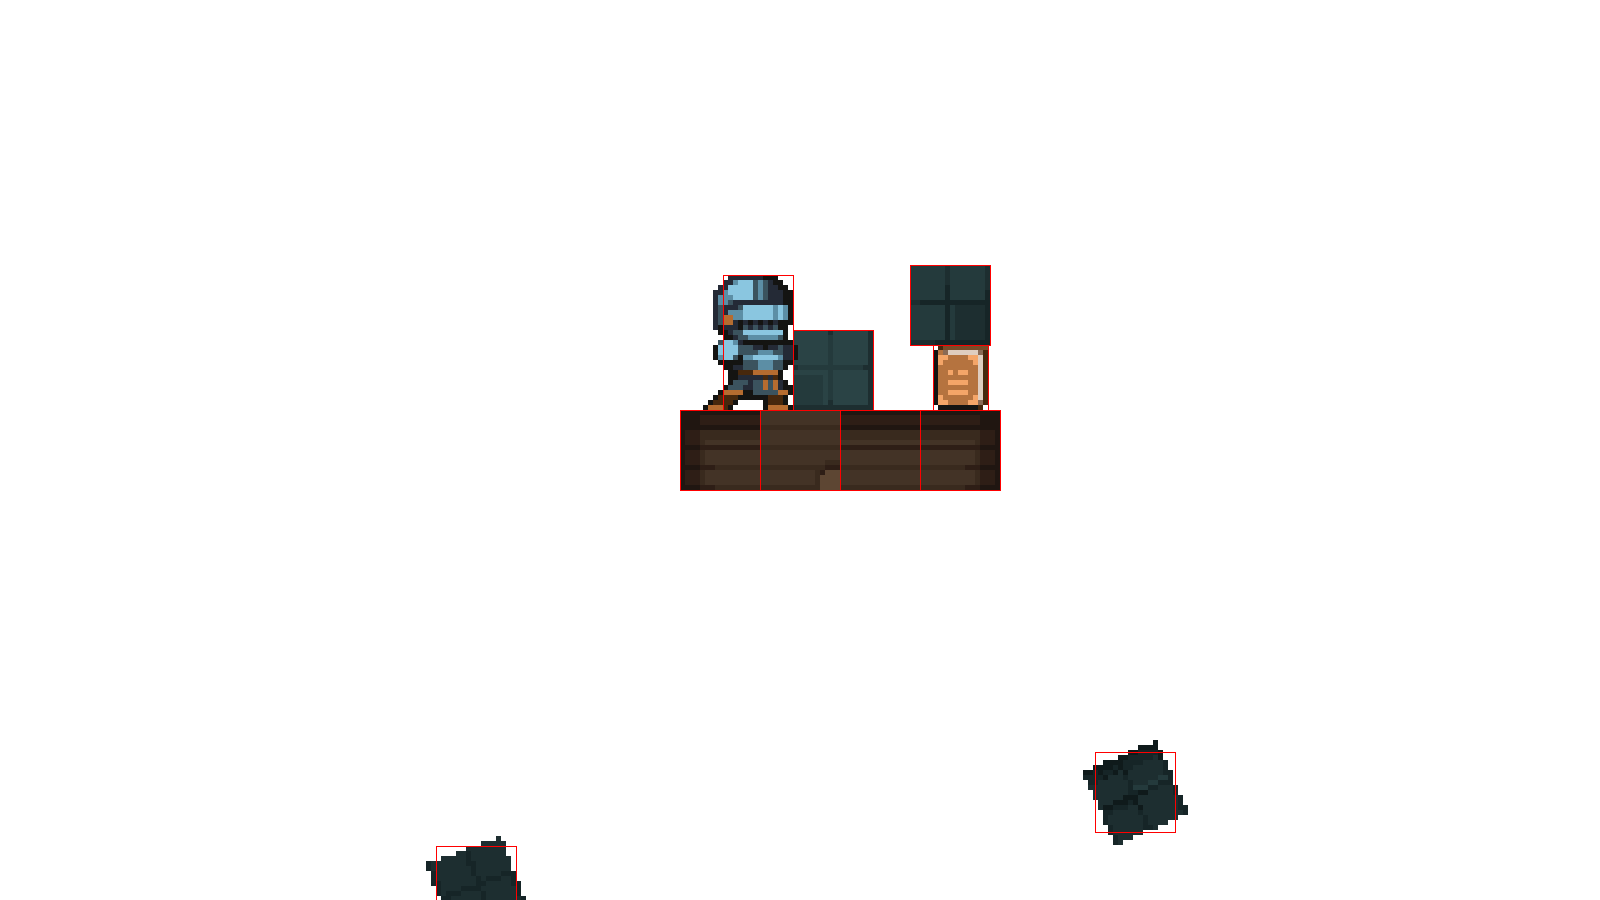
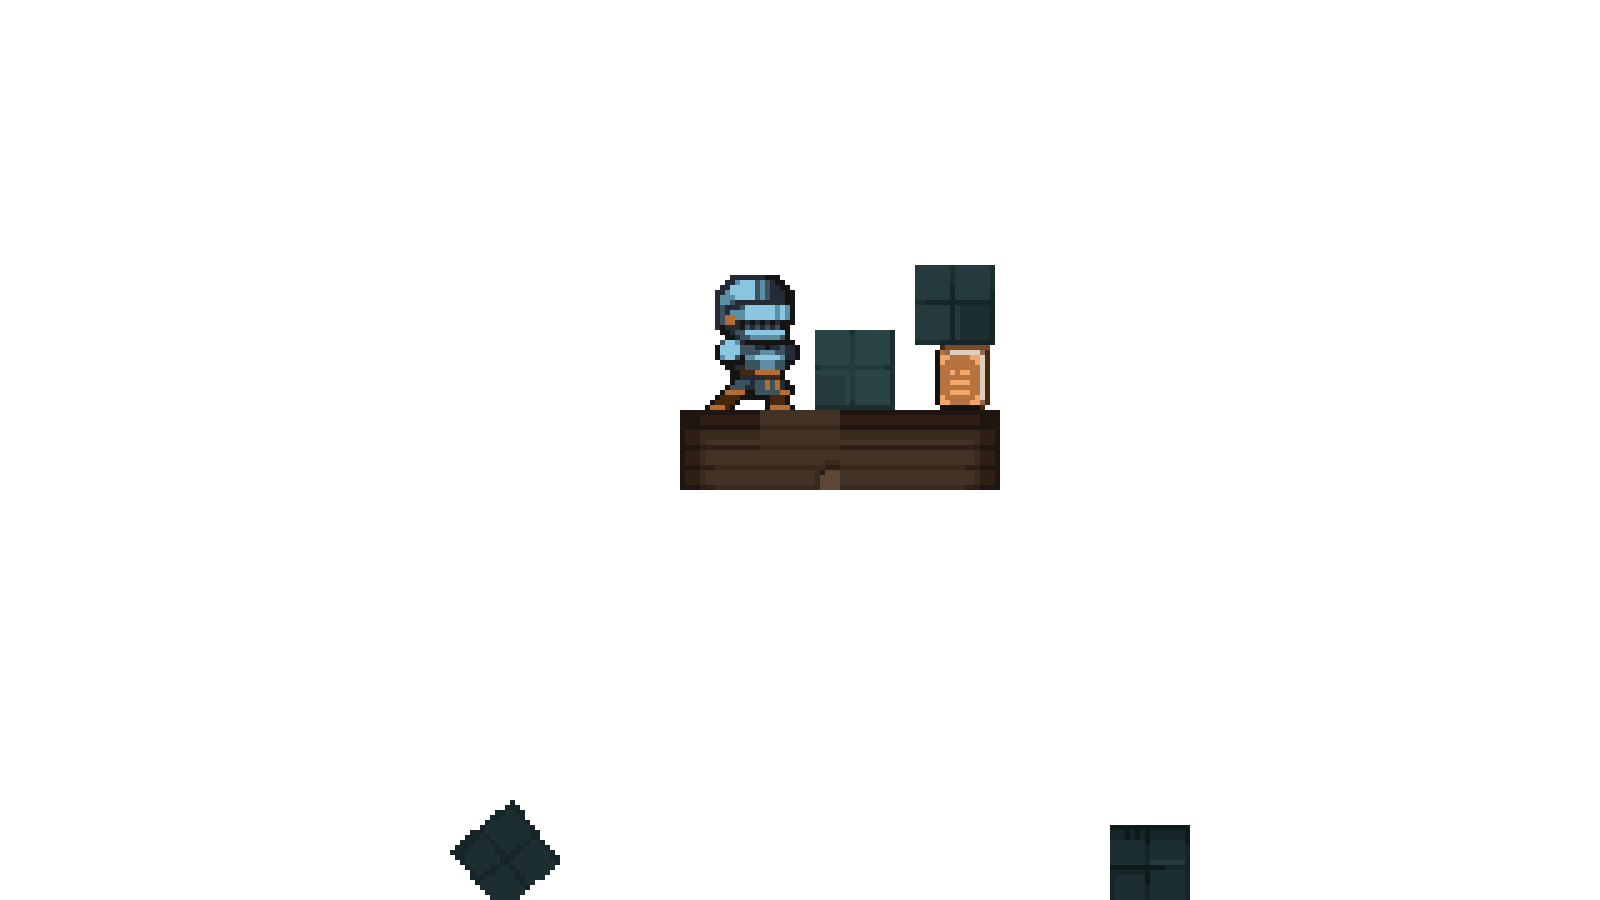
Physics Update

Changed region(s): [[0.4375, 0.3111, 0.625, 0.4667], [0.6562, 0.8089, 0.75, 1.0], [0.25, 0.8711, 0.3438, 1.0]]

diff --git a/app/src/main/java/utils/AssetPool.java b/app/src/main/java/utils/AssetPool.java
@@ -34,24 +34,32 @@ public class AssetPool {
         sounds.clear();
     }
 
-    public static BufferedImage GetSpriteAtlas(String filename) {
-		BufferedImage img = null;
+    public class Utils {
+        public static BufferedImage GetSpriteAtlas(String filename) {
+            BufferedImage img = null;
+    
+            // InputStream is = AssetPool.class.getResourceAsStream(filename);
+            File file = new File(filename);
+            try {
+                img = ImageIO.read(file);
+            } catch (IOException e) {
+                e.printStackTrace();
+            } finally {
+                // try {
+                // 	is.close();
+                // } catch(IOException e) {
+                // 	e.printStackTrace();
+                // }
+            }
+            return img;
+        }
 
-		// InputStream is = AssetPool.class.getResourceAsStream(filename);
-        File file = new File(filename);
-		try {
-			img = ImageIO.read(file);
-		} catch (IOException e) {
-			e.printStackTrace();
-		} finally {
-			// try {
-			// 	is.close();
-			// } catch(IOException e) {
-			// 	e.printStackTrace();
-			// }
-		}
-		return img;
-	}
+        public static void GetAllAssets(String sourceFolder) {
+
+        }
+
+    }
+
 
     public static Texture getTexture(String resourceName) {
         File file = new File(resourceName);

diff --git a/app/src/main/java/physics2d/RaycastInfo.java b/app/src/main/java/physics2d/RaycastInfo.java
@@ -1,0 +1,43 @@
+package physics2d;
+
+import game.GameObject;
+import org.jbox2d.callbacks.RayCastCallback;
+import org.jbox2d.common.Vec2;
+import org.jbox2d.dynamics.Fixture;
+import org.joml.Vector2f;
+
+public class RaycastInfo implements RayCastCallback {
+    
+    public Fixture fixture;
+    public Vector2f point;
+    public Vector2f normal;
+    public float fraction;
+    public boolean hit;
+    public GameObject hitObject;
+    private GameObject requestingObject;
+
+    public RaycastInfo(GameObject obj) {
+        fixture = null;
+        point = new Vector2f();
+        normal = new Vector2f();
+        fraction = 0.0f;
+        hit = false;
+        hitObject = null;
+        this.requestingObject = obj;
+    }
+
+    @Override
+    public float reportFixture(Fixture fixture, Vec2 point, Vec2 normal, float fraction) {
+        if (fixture.m_userData == requestingObject) {
+            return 1;
+        }
+        this.fixture = fixture;
+        this.point = new Vector2f(point.x, point.y);
+        this.normal = new Vector2f(normal.x, normal.y);
+        this.fraction = fraction;
+        this.hit = fraction != 0;
+        this.hitObject = (GameObject)fixture.m_userData;
+
+        return fraction;
+    }
+}

diff --git a/app/src/main/java/game/Window.java b/app/src/main/java/game/Window.java
@@ -8,13 +8,6 @@ import physics2d.Physics2D;
 import scenes.*;
 import utils.AssetPool;
 
-import static org.lwjgl.openal.ALC10.ALC_DEFAULT_DEVICE_SPECIFIER;
-import static org.lwjgl.openal.ALC10.alcCloseDevice;
-import static org.lwjgl.openal.ALC10.alcCreateContext;
-import static org.lwjgl.openal.ALC10.alcDestroyContext;
-import static org.lwjgl.openal.ALC10.alcGetString;
-import static org.lwjgl.openal.ALC10.alcMakeContextCurrent;
-import static org.lwjgl.openal.ALC10.alcOpenDevice;
 import static org.lwjgl.openal.ALC11.*;
 
 import java.awt.Graphics;
@@ -35,14 +28,12 @@ public class Window extends JPanel implements Runnable {
     private static Dimension windowSize;
     private boolean windowLoop;
     private float dt, absDt = 1f / (float) UPS_SET;
-
     private long audioContext, audioDevice;
-
     private static Scene currentScene;
 
     public Window() {
         windowLoop = true;
-        FPS_SET = 60;
+        FPS_SET = 40;
         GameScale = 5.0f;
         WindowWidth = (int) (WINDOW_WIDTH_DEFAULT * GameScale);
         WindowHeight = (int) (WINDOW_HEIGHT_DEFAULT * GameScale);

diff --git a/app/src/main/java/physics2d/Physics2D.java b/app/src/main/java/physics2d/Physics2D.java
@@ -19,6 +19,7 @@ public class Physics2D {
         private float physicsTimeStep = 1.0f / 60.0f;
         private int velocityIterations = 8;
         private int positionIterations = 3;
+
         public void add(GameObject go) {
             Rigidbody2D rb = go.getComponent(Rigidbody2D.class);
             if (rb != null && rb.getRawBody() == null) {
@@ -153,6 +154,13 @@ public class Physics2D {
         fixtureDef.userData = circleCollider.gameObject;
         fixtureDef.isSensor = rb.isSensor();
         body.createFixture(fixtureDef);
+    }
+
+    public RaycastInfo raycast(GameObject requestingObject, Vector2f point1, Vector2f point2) {
+        RaycastInfo callback = new RaycastInfo(requestingObject);
+        world.raycast(callback, new Vec2(point1.x, point1.y),
+                new Vec2(point2.x, point2.y));
+        return callback;
     }
 
     private int fixtureListSize(Body body) {

diff --git a/app/src/main/java/renderer/Texture.java b/app/src/main/java/renderer/Texture.java
@@ -22,7 +22,7 @@ public class Texture {
 	
 	public void setFilepath(String filepath) {
 		this.filepath = filepath;
-		this.imgTexture = AssetPool.GetSpriteAtlas(filepath);
+		this.imgTexture = AssetPool.Utils.GetSpriteAtlas(filepath);
 		this.width = imgTexture.getWidth();
 		this.height = imgTexture.getHeight();
 	}
@@ -33,7 +33,7 @@ public class Texture {
 
 	public BufferedImage getImgTexture() {
 		if (imgTexture == null) {
-			this.imgTexture = AssetPool.GetSpriteAtlas(filepath);
+			this.imgTexture = AssetPool.Utils.GetSpriteAtlas(filepath);
 			this.width = imgTexture.getWidth();
 			this.height = imgTexture.getHeight();	
 		}
